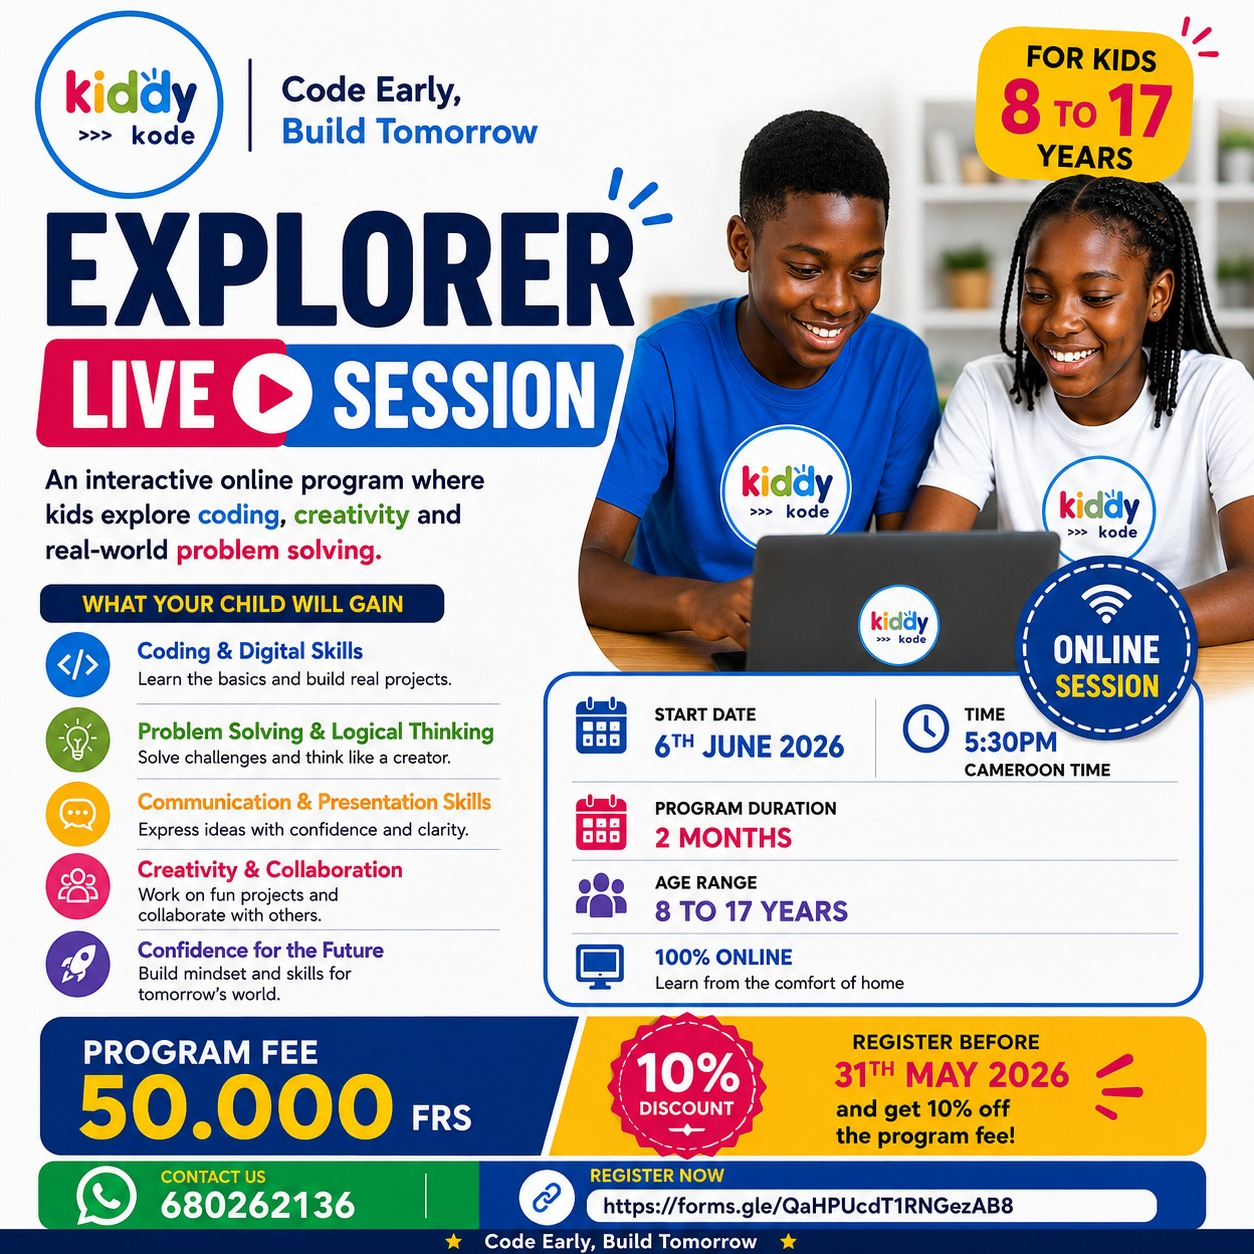
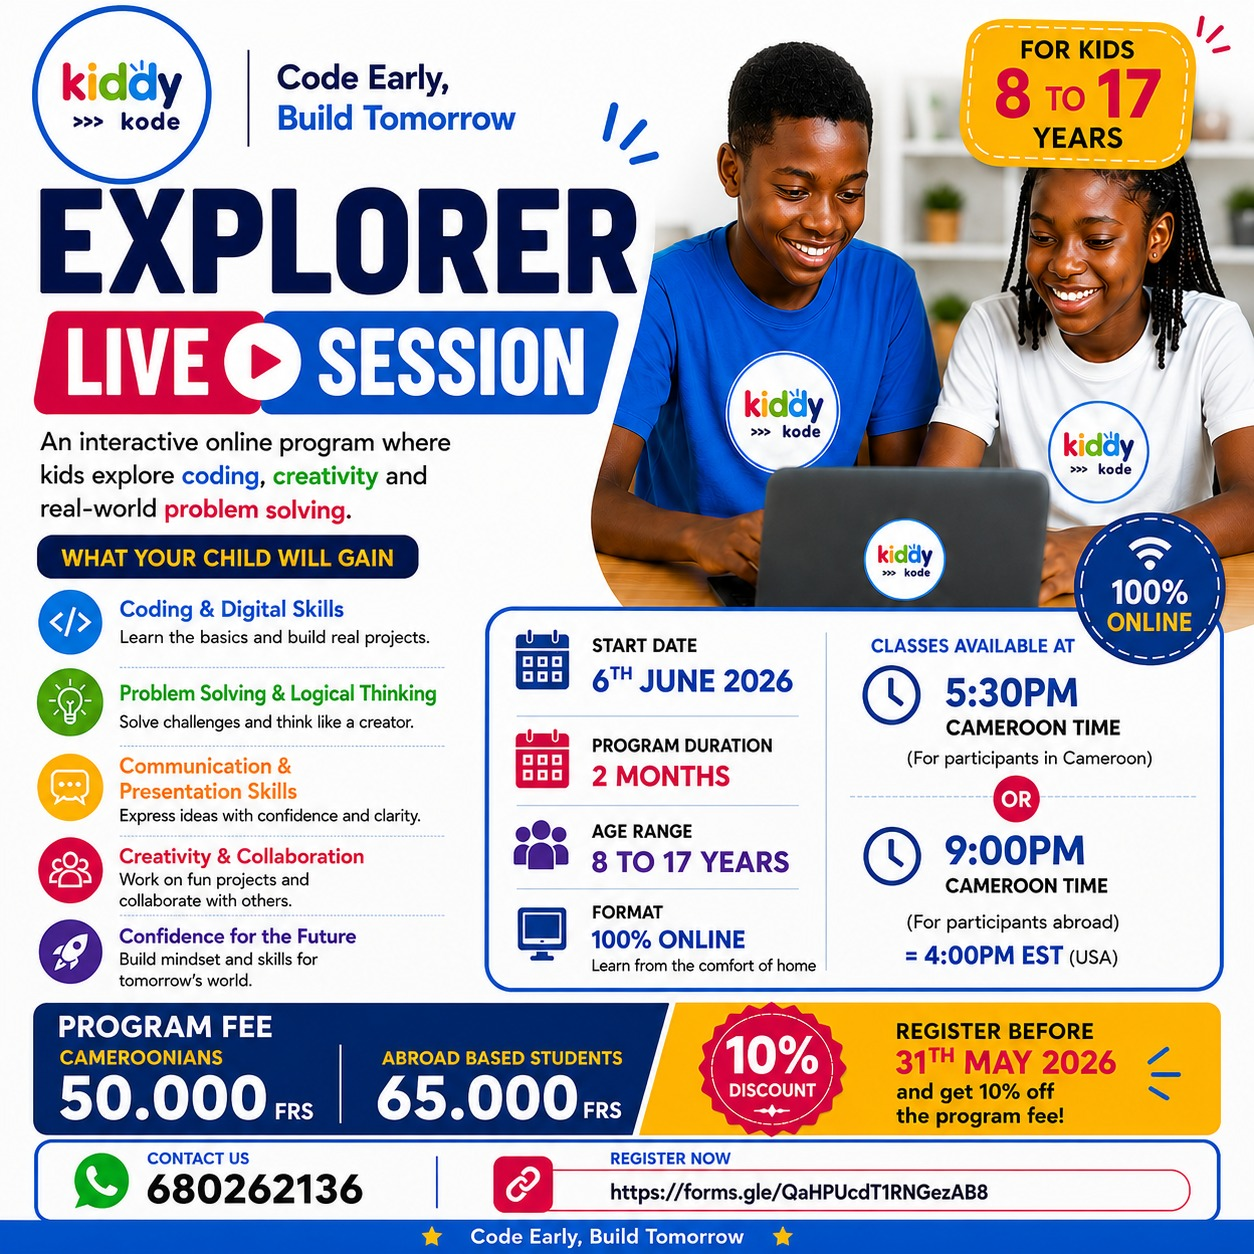
feat: implement YilRegistrationModal and add program pages for next cohort and YIL campaign

diff --git a/app/[locale]/programs/yil-campaign/page.tsx b/app/[locale]/programs/yil-campaign/page.tsx
@@ -140,7 +140,8 @@ const Hi = ({ children }: { children: React.ReactNode }) => (
     style={{
       background: "#FFD93B",
       color: "#0A0A0A",
-      padding: "2px 5px",
+      padding: "1px 4px",
+      margin: "0 2px",
       borderRadius: "4px",
       boxDecorationBreak: "clone",
       WebkitBoxDecorationBreak: "clone",
@@ -258,7 +259,7 @@ export default function YILLandingPage() {
               <span className="inline-block h-1.5 w-1.5 rounded-full bg-yil-warn animate-[yilpulseHi_2.2s_infinite]" />
             </div>
 
-            <h1 className="mt-5 font-extrabold tracking-yil-tighter2 text-[34px] leading-[1.08] sm:text-[44px] lg:text-[58px] lg:leading-[1.04] max-w-[22ch] mx-auto">
+            <h1 className="mt-5 font-extrabold tracking-yil-tighter2 text-[34px] leading-[1.2] sm:text-[44px] lg:text-[58px] lg:leading-[1.15] max-w-[22ch] mx-auto text-yil-fg">
               Give your child a holiday that <Hi>teaches, builds, and inspires</Hi>
             </h1>
             <p className="mt-5 text-[15.5px] lg:text-[17px] text-yil-fg2 max-w-[58ch] mx-auto leading-[1.55]">
@@ -326,7 +327,7 @@ export default function YILLandingPage() {
             <div className="mt-10 max-w-[760px] mx-auto">
               <div className="relative rounded-2xl overflow-hidden border border-yil-line">
                 <Image
-                  src="/yil/bootcamp-photo.jpg"
+                  src="https://res.cloudinary.com/dsbm73ojs/image/upload/v1778909992/for_flier_too_rjsrey.jpg"
                   alt="Students at YIL building circuits and writing code together"
                   width={1520}
                   height={1000}
@@ -426,7 +427,7 @@ export default function YILLandingPage() {
         {/* ================= WHY JOIN ================= */}
         <section id="program" className="relative bg-white text-black">
           <div className="mx-auto max-w-[1100px] px-4 lg:px-6 py-16 lg:py-20">
-            <h2 className="text-center font-extrabold tracking-yil-tighter2 text-[28px] sm:text-[36px] lg:text-[44px] leading-[1.1] text-black">
+            <h2 className="text-center font-extrabold tracking-yil-tighter2 text-[28px] sm:text-[36px] lg:text-[44px] leading-[1.2] text-black">
               Why parents <Hi>choose YIL</Hi> for the holidays
             </h2>
             <p className="mt-3 text-center text-gray-600 max-w-[58ch] mx-auto text-[15px]">
@@ -506,7 +507,7 @@ export default function YILLandingPage() {
         {/* ================= NEWS-STYLE SOCIAL PROOF ================= */}
         <section className="bg-yil-card2 border-y border-yil-line">
           <div className="mx-auto max-w-[1100px] px-4 lg:px-6 py-16 lg:py-20">
-            <h2 className="text-center font-extrabold tracking-yil-tighter2 text-[28px] sm:text-[36px] leading-[1.1]">
+            <h2 className="text-center font-extrabold tracking-yil-tighter2 text-[28px] sm:text-[36px] leading-[1.2] text-yil-fg">
               <HiLine>Kids who can</HiLine> solve problems <Hi>will stand out</Hi>
             </h2>
             <p className="mt-3 text-center text-yil-fg2 max-w-[58ch] mx-auto text-[15px]">
@@ -516,8 +517,8 @@ export default function YILLandingPage() {
             {/* Stats */}
             <div className="mt-10 grid sm:grid-cols-3 gap-3">
               {[
-                { n: "230M+", d: <>Young Africans needing digital skills <span className="text-yil-fg2">— ITU, 2025</span></> },
-                { n: "3.5M", d: <>Tech jobs forecast across Africa by 2030 <span className="text-yil-fg2">— Google / IFC</span></> },
+                { n: "230M+", d: <>digital-skill-related jobs in Sub-Saharan Africa by 2030. <span className="text-yil-fg2">— IFC</span></> },
+                { n: "650M", d: <>training opportunities by 2030 <span className="text-yil-fg2">— IFC</span></> },
                 { n: "5×", d: <>Higher employability for tech-literate graduates <span className="text-yil-fg2">— World Bank</span></> },
               ].map((s, i) => (
                 <div key={i} className="bg-yil-card border border-yil-line rounded-xl p-5 text-center">
@@ -530,8 +531,8 @@ export default function YILLandingPage() {
             {/* News cards */}
             <div className="mt-8 grid md:grid-cols-3 gap-3">
               {[
-                { name: <span className="font-yil-serif italic">Cameroon Tribune</span>, quote: "\u201CCameroon's youth must master coding to compete in the new African digital market.\u201D", tag: "Education · 2025" },
-                { name: <span>Jeune Afrique</span>, quote: "\u201CAfrica's next wave of founders is being trained right now — at 14, not 24.\u201D", tag: "Innovation · 2025" },
+                { name: <span className="font-yil-serif italic">Cameroon Tribune</span>, quote: "\u201CRegional policy and education reporting consistently highlights Africa’s digital-skills gap.\u201D", tag: "Education · 2025" },
+                { name: <span>Jeune Afrique</span>, quote: "\u201CAfrica’s youth need stronger pathways from digital literacy to creation and problem-solving.\u201D", tag: "Innovation · 2025" },
                 { name: <span className="font-extrabold">TechCabal</span>, quote: "\u201CHands-on bootcamps are out-performing traditional CS curricula for early-stage learners.\u201D", tag: "Skills · 2025" },
               ].map((n, i) => (
                 <article key={i} className="bg-yil-card border border-yil-line rounded-[10px] overflow-hidden">
@@ -558,7 +559,7 @@ export default function YILLandingPage() {
                 Reserve before midnight · 65,000 FCFA
                 <ArrowRight className="h-4 w-4" />
               </button>
-              <div className="mt-2 font-yil-mono text-[11px] text-yil-fg2">Register before midnight, June 15 — to unlock bonuses worth 10,500 FCFA</div>
+              <div className="mt-2 font-yil-mono text-[11px] text-yil-fg2">Register before midnight, June 15 — to get a discount of 10,500 FCFA</div>
             </div>
           </div>
         </section>
@@ -566,7 +567,7 @@ export default function YILLandingPage() {
         {/* ================= IS THIS FOR YOU ================= */}
         <section className="bg-white text-black">
           <div className="mx-auto max-w-[1100px] px-4 lg:px-6 py-16 lg:py-20">
-            <h2 className="text-center font-extrabold tracking-yil-tighter2 text-[28px] sm:text-[36px] leading-[1.1] text-black">
+            <h2 className="text-center font-extrabold tracking-yil-tighter2 text-[28px] sm:text-[36px] leading-[1.2] text-black">
               Is this bootcamp <Hi>for your child</Hi>?
             </h2>
             <p className="mt-3 text-center text-gray-600 max-w-[60ch] mx-auto text-[15px]">
@@ -711,7 +712,7 @@ export default function YILLandingPage() {
         {/* ================= CERTIFICATE PREVIEW ================= */}
         <section className="bg-yil-card2 border-y border-yil-line">
           <div className="mx-auto max-w-[1100px] px-4 lg:px-6 py-16 lg:py-20">
-            <h2 className="text-center font-extrabold tracking-yil-tighter2 text-[28px] sm:text-[36px] leading-[1.1]">
+            <h2 className="text-center font-extrabold tracking-yil-tighter2 text-[28px] sm:text-[36px] leading-[1.2] text-yil-fg">
               Your child&apos;s name on a <Hi>YIL completion certificate</Hi>
             </h2>
             <p className="mt-3 text-center text-yil-fg2 max-w-[58ch] mx-auto text-[15px]">
@@ -734,7 +735,7 @@ export default function YILLandingPage() {
                 </div>
                 <div className="mt-8 flex items-center justify-between gap-4">
                   <div className="text-left flex-1 max-w-[160px]">
-                    <div className="font-yil-serif italic text-[20px]">Aditya / YIL</div>
+                    <div className="font-yil-serif italic text-[20px]">Chiella Harriet / YIL</div>
                     <div className="text-[10px] font-yil-mono uppercase tracking-wider text-yil-fg3">Lead Instructor</div>
                   </div>
                   <div className="h-14 w-14 rounded-full bg-yil-bg/10 border border-yil-bg/20 flex items-center justify-center">
@@ -766,7 +767,7 @@ export default function YILLandingPage() {
         {/* ================= MENTORS ================= */}
         <section className="bg-white text-black">
           <div className="mx-auto max-w-[1100px] px-4 lg:px-6 py-16 lg:py-20">
-            <h2 className="text-center font-extrabold tracking-yil-tighter2 text-[28px] sm:text-[36px] leading-[1.1] text-black">
+            <h2 className="text-center font-extrabold tracking-yil-tighter2 text-[28px] sm:text-[36px] leading-[1.2] text-black">
               Know your <Hi>mentors</Hi>
             </h2>
             <p className="mt-3 text-center text-gray-600 max-w-[58ch] mx-auto text-[15px]">
@@ -780,11 +781,12 @@ export default function YILLandingPage() {
                   name: "Chiella Harriet",
                   img: "https://res.cloudinary.com/dsbm73ojs/image/upload/v1778875749/Untitled_design_samdro.png",
                   bullets: ["Kiddykode co-founder · 8+ years teaching", "Python · electronics · Design Thinking"],
-                  bio: <>Hi, I&apos;m leading the YIL programme this year. I&apos;ve taught over 600 students in Cameroon — I know how to take a beginner to a working project in 4 weeks. <span className="text-yil-hi-dk font-bold">Come build with us.</span></>,
+                  bio: <>Hi, I&apos;m leading the YIL programme this year. It shall be exciting taking beginners to a working project in 4 weeks. <span className="text-yil-hi-dk font-bold">Come build with us.</span></>,
                 },
                 {
                   role: "Programme Director",
-                  name: "[ Mentor Name 02 ]",
+                  name: "Mbah Matt-Klaus",
+                  img: "https://res.cloudinary.com/dsbm73ojs/image/upload/v1779163880/Mbah_Matt-Klaus_orxaah.jpg",
                   bullets: ["PlastiBytes engineer · electronics specialist", "Circuits · microcontrollers · Pitch Day coaching"],
                   bio: <>I&apos;ll be running the electronics and prototyping track. We work with real components — what your child builds at YIL <span className="text-yil-hi-dk font-bold">is theirs to take home</span>.</>,
                 },
@@ -842,7 +844,7 @@ export default function YILLandingPage() {
         {/* ================= SESSIONS + PRICING ================= */}
         <section className="bg-yil-card2 border-y border-yil-line">
           <div className="mx-auto max-w-[1100px] px-4 lg:px-6 py-16 lg:py-20">
-            <h2 className="text-center font-extrabold tracking-yil-tighter2 text-[28px] sm:text-[36px] leading-[1.1]">
+            <h2 className="text-center font-extrabold tracking-yil-tighter2 text-[28px] sm:text-[36px] leading-[1.2] text-yil-fg">
               Pick your <Hi>session & lock the price</Hi>
             </h2>
             <p className="mt-3 text-center text-yil-fg2 max-w-[58ch] mx-auto text-[15px]">
@@ -883,7 +885,7 @@ export default function YILLandingPage() {
                     <Eyebrow>{s.tag}</Eyebrow>
                     {s.badge}
                   </div>
-                  <h3 className="mt-3 font-extrabold text-[28px] tracking-yil-tighter2">{s.title}</h3>
+                  <h3 className="mt-3 font-extrabold text-[28px] tracking-yil-tighter2 text-yil-fg">{s.title}</h3>
                   <ul className="mt-4 space-y-1.5 text-[13.5px] text-yil-fg2">
                     {s.bullets.map((b) => (
                       <li key={b} className="flex items-center gap-2">
@@ -933,7 +935,7 @@ export default function YILLandingPage() {
         {/* ================= HOW IT WORKS ================= */}
         <section>
           <div className="mx-auto max-w-[1100px] px-4 lg:px-6 py-16 lg:py-20">
-            <h2 className="text-center font-extrabold tracking-yil-tighter2 text-[28px] sm:text-[36px] leading-[1.1]">
+            <h2 className="text-center font-extrabold tracking-yil-tighter2 text-[28px] sm:text-[36px] leading-[1.2] text-yil-fg">
               How to reserve in <Hi>3 simple steps</Hi>
             </h2>
 
@@ -945,7 +947,7 @@ export default function YILLandingPage() {
               ].map((step) => (
                 <div key={step.n} className="bg-yil-card border border-yil-line rounded-xl p-5 text-center">
                   <div className="font-extrabold text-yil-hi text-[44px] leading-none tracking-yil-tighter3">{step.n}</div>
-                  <h3 className="mt-3 font-bold text-[16px]">{step.t}</h3>
+                  <h3 className="mt-3 font-bold text-[16px] text-yil-fg">{step.t}</h3>
                   <p className="mt-2 text-[13px] text-yil-fg2">{step.d}</p>
                 </div>
               ))}
@@ -956,7 +958,7 @@ export default function YILLandingPage() {
         {/* ================= FAQ ================= */}
         <section className="bg-white text-black border-y border-gray-200">
           <div className="mx-auto max-w-[860px] px-4 lg:px-6 py-16 lg:py-20">
-            <h2 className="text-center font-extrabold tracking-yil-tighter2 text-[28px] sm:text-[36px] leading-[1.1] text-black">
+            <h2 className="text-center font-extrabold tracking-yil-tighter2 text-[28px] sm:text-[36px] leading-[1.2] text-black">
               Frequently <Hi>asked</Hi> questions
             </h2>
             <p className="mt-3 text-center text-gray-600 max-w-[58ch] mx-auto text-[15px]">
@@ -1001,7 +1003,7 @@ export default function YILLandingPage() {
               <span className="inline-block h-1.5 w-1.5 rounded-full bg-yil-warn animate-[yilpulseHi_2.2s_infinite]" />
               ONLY 18 SEATS LEFT IN SESSION 01
             </div>
-            <h2 className="mt-6 font-extrabold tracking-yil-tighter3 text-[40px] sm:text-[64px] lg:text-[88px] leading-[0.95] max-w-[20ch] mx-auto">
+            <h2 className="mt-6 font-extrabold tracking-yil-tighter3 text-[40px] sm:text-[64px] lg:text-[88px] leading-[1.15] max-w-[20ch] mx-auto text-yil-fg">
               A productive holiday <Hi>is a choice</Hi>
             </h2>
             <p className="mt-6 text-yil-fg2 max-w-[58ch] mx-auto text-[16px]">

diff --git a/app/[locale]/programs/next-cohort/page.tsx b/app/[locale]/programs/next-cohort/page.tsx
@@ -75,6 +75,7 @@ export default function NextCohortPage() {
               <div className={styles.infoGroup}>
                 <span className={styles.infoLabel}>Schedule</span>
                 <span className={styles.infoValue}>Every week · 5:30 PM (Cameroon Time)</span>
+                <span className={styles.infoValue}>Every week · 9:00 PM (Cameroon Time for Participants Abroad)</span>
               </div>
               <div className={styles.infoGroup}>
                 <span className={styles.infoLabel}>Start Date</span>
@@ -94,7 +95,8 @@ export default function NextCohortPage() {
               </div>
               <div className={styles.infoGroup}>
                 <span className={styles.infoLabel}>Program Fee</span>
-                <span className={styles.infoValue}>50,000 FRS</span>
+                <span className={styles.infoValue}>50,000 FRS (Cameroon)</span>
+                <span className={styles.infoValue}>65,000 FRS (Abroad)</span>
               </div>
               <div className={styles.infoGroup}>
                 <span className={styles.infoLabel}>Early Bird</span>
@@ -113,7 +115,7 @@ export default function NextCohortPage() {
                 src="/explorer-cohort-june-2026.jpeg" 
                 alt="Explorer Live Session Flyer — June 2026" 
                 width={800} 
-                height={1000} 
+                height={800} 
                 style={{ width: '100%', height: 'auto', borderRadius: '8px' }}
               />
             </div>

diff --git a/app/components/YilRegistrationModal.tsx b/app/components/YilRegistrationModal.tsx
@@ -72,7 +72,7 @@ export function YilRegistrationModal({ isOpen, onClose }: Props) {
         {/* Header */}
         <div className="bg-yil-card border-b border-yil-line text-yil-fg px-6 py-4 flex items-center gap-3">
           <UserPlusIcon />
-          <h2 className="text-xl font-extrabold tracking-tight">Register Now</h2>
+          <h2 className="text-xl font-extrabold tracking-tight text-yil-fg">Register Now</h2>
           <button
             onClick={onClose}
             className="ml-auto text-gray-400 hover:text-white transition-colors"
@@ -127,7 +127,7 @@ export function YilRegistrationModal({ isOpen, onClose }: Props) {
                   htmlFor="fullName"
                   className="block text-sm font-extrabold text-yil-fg mb-1"
                 >
-                  Full name / Nom et prénom <span className="text-red-500">*</span>
+                  Full name <span className="text-red-500">*</span>
                 </label>
                 <input
                   type="text"
